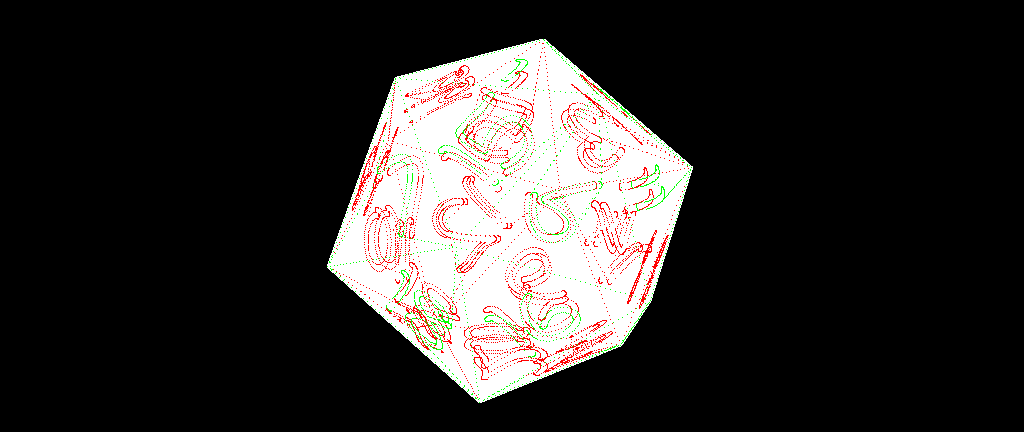
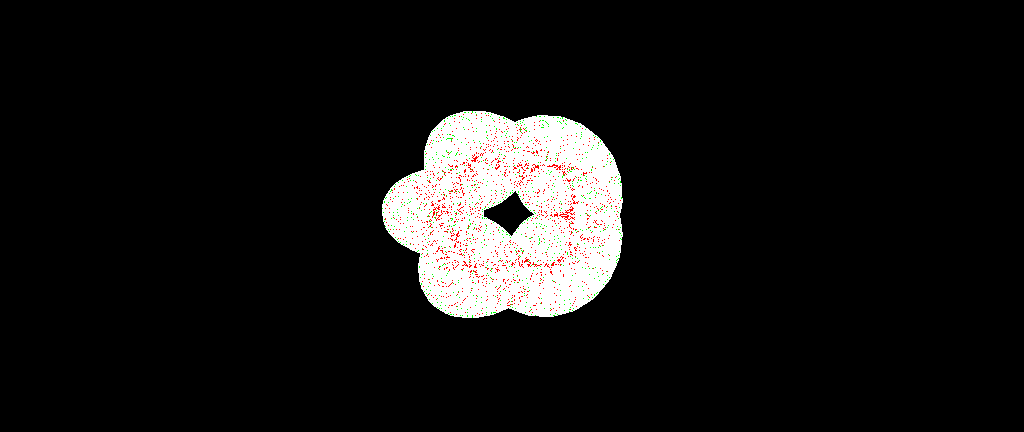
Aggiunto metodo order_paths_for_gcode

Changed region(s): [[0.3125, 0.0903, 0.6875, 0.9329]]

diff --git a/ScratchHologram Generator/scratch_desktop_app.py b/ScratchHologram Generator/scratch_desktop_app.py
@@ -275,8 +275,8 @@ def write_gcode(
         raise ValueError("Campionamento archi vuoto.")
 
     y_max_u = max(p[1] for p in all_points)
-    scaled_paths: list[list[tuple[float, float]]] = []
-    for path in raw_paths:
+    export_items: list[dict[str, object]] = []
+    for arc, path in zip(arcs, raw_paths):
         scaled_path: list[tuple[float, float]] = []
         for x_u, y_u in path:
             y_src = (y_max_u - y_u) if invert_y else y_u
@@ -284,19 +284,24 @@ def write_gcode(
             y_mm = y_src * mm_per_unit
             scaled_path.append((x_mm, y_mm))
         if len(scaled_path) >= 2:
-            scaled_paths.append(scaled_path)
+            export_items.append({"arc": arc, "scaled_path": scaled_path})
 
-    all_scaled = [pt for path in scaled_paths for pt in path]
+    if len(export_items) == 0:
+        raise ValueError("Nessun percorso esportabile dopo la scalatura.")
+
+    all_scaled = [pt for item in export_items for pt in item["scaled_path"]]  # type: ignore[index]
     min_x_mm = min(p[0] for p in all_scaled)
     min_y_mm = min(p[1] for p in all_scaled)
 
     translated_paths: list[list[tuple[float, float]]] = []
-    for path in scaled_paths:
+    for item in export_items:
+        path = item["scaled_path"]  # type: ignore[index]
         out_path: list[tuple[float, float]] = []
         for x_mm, y_mm in path:
             p = (x_mm - min_x_mm, y_mm - min_y_mm)
             out_path.append(p)
         translated_paths.append(out_path)
+        item["path"] = out_path
 
     def to_mm_xy(x_u: float, y_u: float) -> tuple[float, float]:
         y_src = (y_max_u - y_u) if invert_y else y_u
@@ -314,11 +319,15 @@ def write_gcode(
 
     mode = str(arc_mode).strip().lower()
     use_circular_commands = mode == "semi"
+    path_order = order_paths_for_gcode(translated_paths)
 
     segment_count = 0
     path_count = 0
     total_cut_length = 0.0
-    for arc, path in zip(arcs, translated_paths):
+    for item_idx, reverse_path in path_order:
+        item = export_items[item_idx]
+        arc = item["arc"]  # type: ignore[index]
+        path = item["path"]  # type: ignore[index]
         if len(path) < 2:
             continue
 
@@ -344,6 +353,9 @@ def write_gcode(
             ccw = float(arc.sweep_angle) >= 0.0
             if not invert_y:
                 ccw = not ccw
+            if reverse_path:
+                sx, sy, ex, ey = ex, ey, sx, sy
+                ccw = not ccw
             cmd = "G3" if ccw else "G2"
 
             gcode_lines.append(f"G0 X{sx:.4f} Y{sy:.4f}")
@@ -356,6 +368,8 @@ def write_gcode(
             path_count += 1
             continue
 
+        if reverse_path:
+            path = list(reversed(path))
         sx, sy = path[0]
         gcode_lines.append(f"G0 X{sx:.4f} Y{sy:.4f}")
         gcode_lines.append(f"G1 Z{cut_z_mm:.4f} F{feed_z_mm_min:.2f}")
@@ -383,6 +397,77 @@ def write_gcode(
     gcode_path.parent.mkdir(parents=True, exist_ok=True)
     gcode_path.write_text("\n".join(gcode_lines), encoding="utf-8")
     return path_count, segment_count, total_cut_length
+
+
+def order_paths_for_gcode(paths: list[list[tuple[float, float]]]) -> list[tuple[int, bool]]:
+    """
+    Order independent toolpaths to reduce non-cutting travel.
+
+    Parameters
+    ----------
+    paths : list[list[tuple[float, float]]]
+        Independent planar toolpaths in millimeters.
+
+    Returns
+    -------
+    list[tuple[int, bool]]
+        Sequence of `(path_index, reverse_path)` decisions.
+
+    Notes
+    -----
+    The planner uses a greedy nearest-neighbor strategy from the current tool
+    endpoint, starting at the translated origin `(0, 0)`. The trade-off is
+    that it is not globally optimal, but it is fast and predictable for
+    thousands of short scratch arcs.
+
+    Assumptions
+    -----------
+    Every input path contains at least two points and can be traversed in
+    either direction without changing the intended engraved geometry.
+    """
+
+    if len(paths) <= 1:
+        return [(idx, False) for idx in range(len(paths))]
+
+    remaining = set(range(len(paths)))
+    current_x = 0.0
+    current_y = 0.0
+    ordered: list[tuple[int, bool]] = []
+
+    while remaining:
+        best_idx = -1
+        best_reverse = False
+        best_distance_sq = float("inf")
+        best_end_x = current_x
+        best_end_y = current_y
+
+        for idx in remaining:
+            path = paths[idx]
+            start_x, start_y = path[0]
+            end_x, end_y = path[-1]
+
+            start_distance_sq = (start_x - current_x) ** 2 + (start_y - current_y) ** 2
+            if start_distance_sq < best_distance_sq:
+                best_idx = idx
+                best_reverse = False
+                best_distance_sq = start_distance_sq
+                best_end_x = end_x
+                best_end_y = end_y
+
+            end_distance_sq = (end_x - current_x) ** 2 + (end_y - current_y) ** 2
+            if end_distance_sq < best_distance_sq:
+                best_idx = idx
+                best_reverse = True
+                best_distance_sq = end_distance_sq
+                best_end_x = start_x
+                best_end_y = start_y
+
+        ordered.append((best_idx, best_reverse))
+        remaining.remove(best_idx)
+        current_x = best_end_x
+        current_y = best_end_y
+
+    return ordered
 
 
 def estimate_gcode_footprint_mm(arcs: list[Arc], target_width_mm: float) -> tuple[float, float]:
@@ -531,12 +616,12 @@ class ScratchDesktopApp:
         self.visibility_cull = tk.BooleanVar(value=False)
 
         self.gcode_target_width_mm = 10.0
-        self.gcode_safe_z_mm = 5.0
-        self.gcode_cut_z_mm = -0.02
-        self.gcode_feed_xy_mm_min = 400.0
-        self.gcode_feed_z_mm_min = 120.0
+        self.gcode_safe_z_mm = 0.2
+        self.gcode_cut_z_mm = -0.06
+        self.gcode_feed_xy_mm_min = 600.0
+        self.gcode_feed_z_mm_min = 520.0
         self.gcode_max_segment_mm = 0.20
-        self.gcode_spindle_rpm = 1000
+        self.gcode_spindle_rpm = 0
         self.gcode_invert_y = True
 
         self.status_var = tk.StringVar(value="Apri un file STL per iniziare.")
@@ -1421,7 +1506,7 @@ class ScratchDesktopApp:
 
         cut_z_mm = simpledialog.askfloat(
             "G-code: incisione",
-            "Quota Z di incisione (mm, negativa):\nPer i primi test con punta diamantata prova -0.01 / -0.02.",
+            "Quota Z di incisione (mm, negativa):\nUsa un valore sufficiente a compensare piccoli dislivelli del piano.",
             parent=parent,
             initialvalue=float(self.gcode_cut_z_mm),
         )
@@ -1440,7 +1525,7 @@ class ScratchDesktopApp:
 
         feed_z_mm_min = simpledialog.askfloat(
             "G-code: feed Z",
-            "Feed Z (mm/min):\nValori prudenti riducono il rischio di incidere troppo.",
+            "Feed Z (mm/min):\nMantienilo compatibile con la dinamica reale dell'asse Z.",
             parent=parent,
             initialvalue=float(self.gcode_feed_z_mm_min),
             minvalue=1.0,
@@ -1460,7 +1545,7 @@ class ScratchDesktopApp:
 
         spindle_rpm = simpledialog.askinteger(
             "G-code: mandrino",
-            "RPM mandrino (0 = non emettere M3/M5):\n1000 e' un punto di partenza prudente se vuoi tenerlo acceso.",
+            "RPM mandrino (0 = non emettere M3/M5):\nLascia 0 se vuoi incidere con utensile non rotante.",
             parent=parent,
             initialvalue=int(self.gcode_spindle_rpm),
             minvalue=0,
